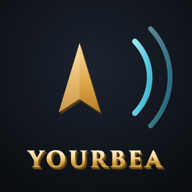
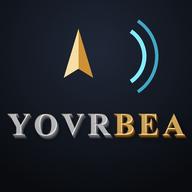
Icona in rilievo forte e schermata d avvio

Changed region(s): [[0.0312, 0.0938, 0.9688, 0.75], [0.125, 0.7812, 0.875, 0.9062]]

diff --git a/index.html b/index.html
@@ -198,6 +198,17 @@
 
 
 
+
+  /* la schermata d'avvio: l'insegna per un attimo, poi si entra */
+  #avvio{position:fixed;inset:0;z-index:200;display:grid;place-items:center;
+    background:radial-gradient(900px 600px at 50% 32%, #1A2029 0%, #090B0E 70%);
+    animation:viaAvvio .5s ease-in 1.25s forwards}
+  #avvio img{width:min(78vw,420px);height:auto;filter:drop-shadow(0 20px 50px rgba(0,0,0,.6));
+    animation:entraAvvio .7s ease-out}
+  @keyframes entraAvvio{from{opacity:0;transform:scale(.94)}to{opacity:1;transform:scale(1)}}
+  @keyframes viaAvvio{to{opacity:0;visibility:hidden}}
+  @media (prefers-reduced-motion:reduce){ #avvio{animation-delay:.4s} }
+
   /* ---------- veste nuova: profondità, gerarchia, meno rumore ---------- */
   :root{
     --oro:#C9A227; --oro-chiaro:#E7C65A; --neon:#5BE3FF;
@@ -527,6 +538,10 @@
 </style>
 </head>
 <body>
+<div id="avvio" aria-hidden="true">
+  <img src="icons/avvio.png" alt="">
+</div>
+
 <div id="porta" role="dialog" aria-label="Scegli come usare la guida">
   <div class="porta-testa">
     <span class="wordmark">Yourbea</span>
@@ -4534,6 +4549,13 @@
   }
 
 
+
+
+  // tolta di mezzo appena finita: se no si prende i tocchi
+  (function(){
+    var a=el('avvio'); if(!a)return;
+    setTimeout(function(){ a.style.display='none'; }, 1900);
+  })();
 
   /* ---------- il tasto dell'aiuto ----------
      Deve funzionare al primo tocco e senza leggere: il 112 riceve la
